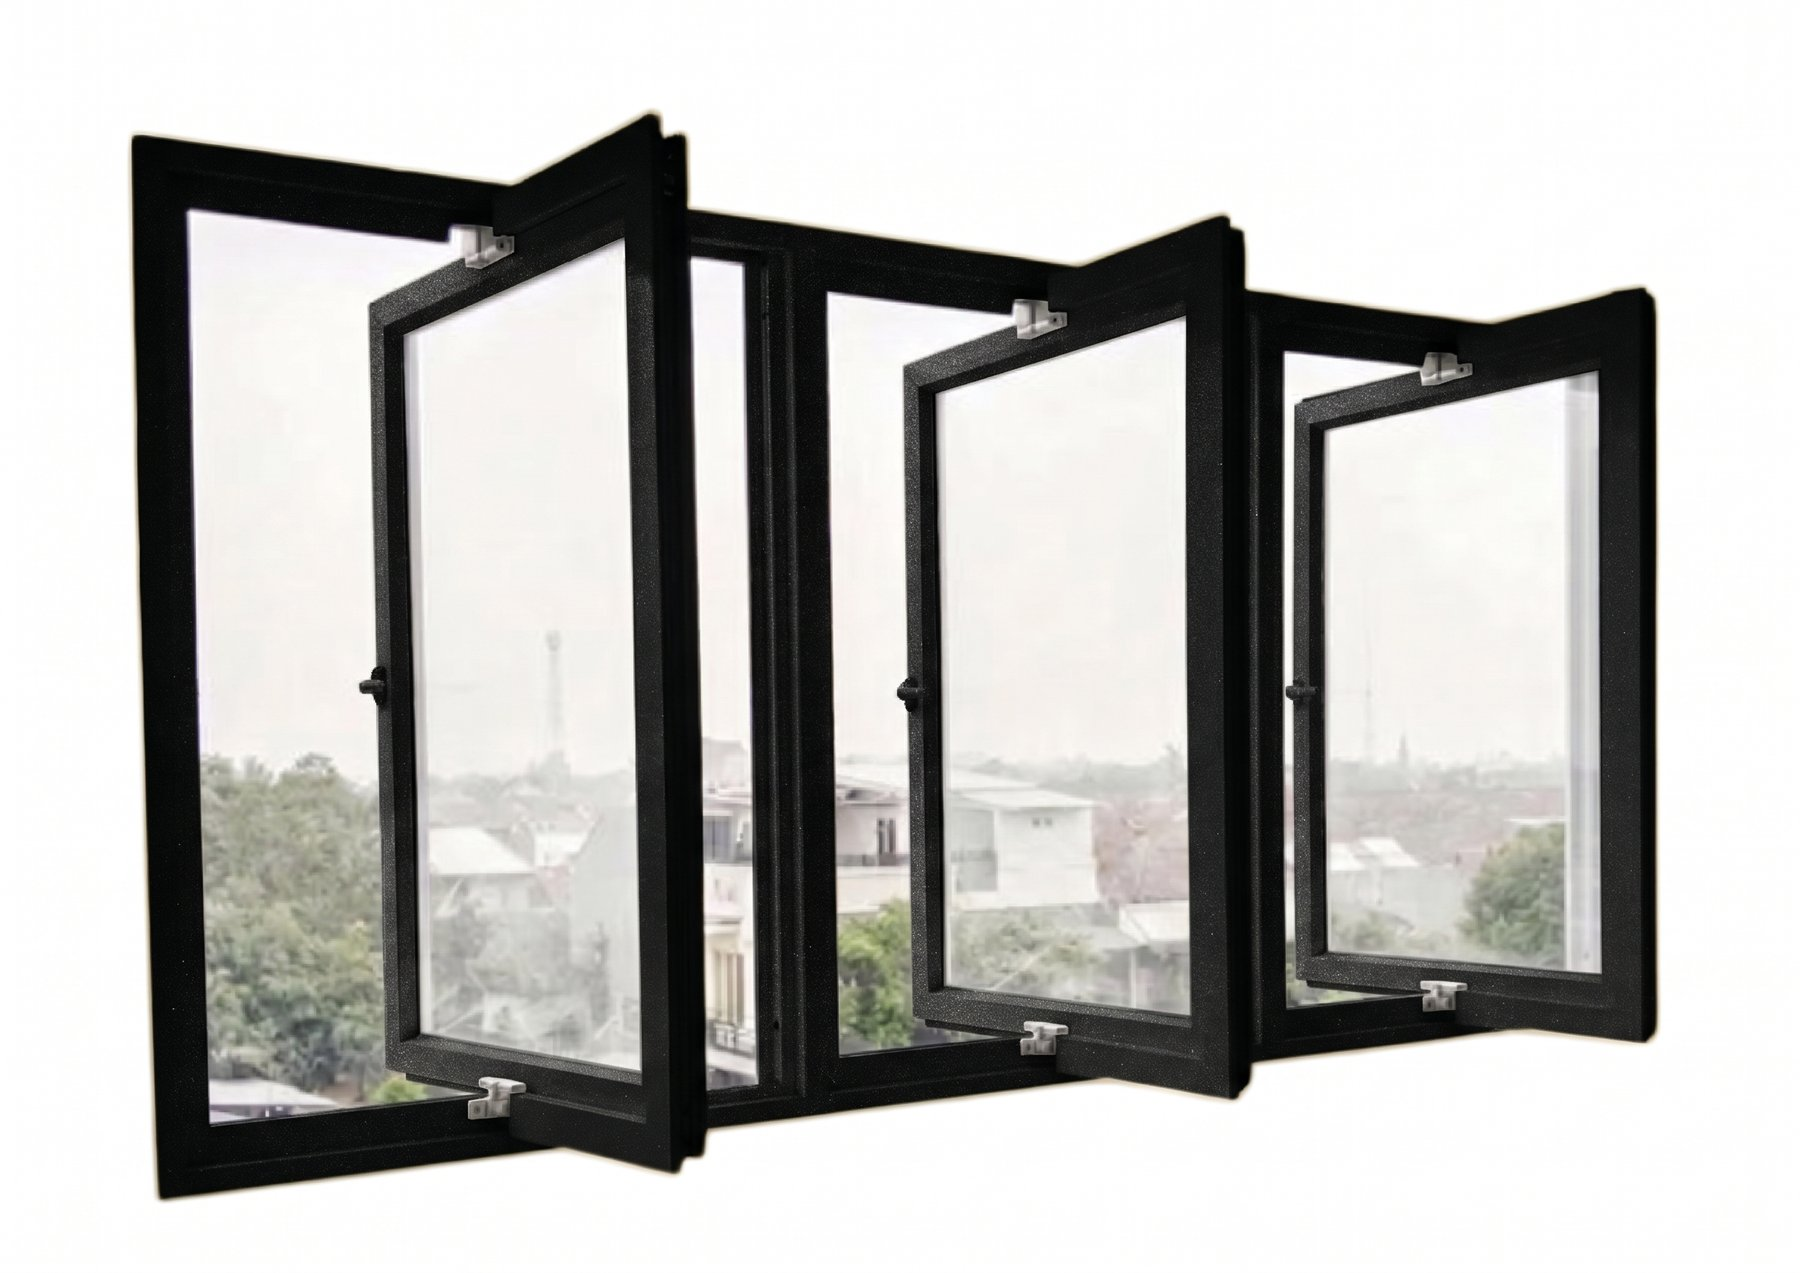
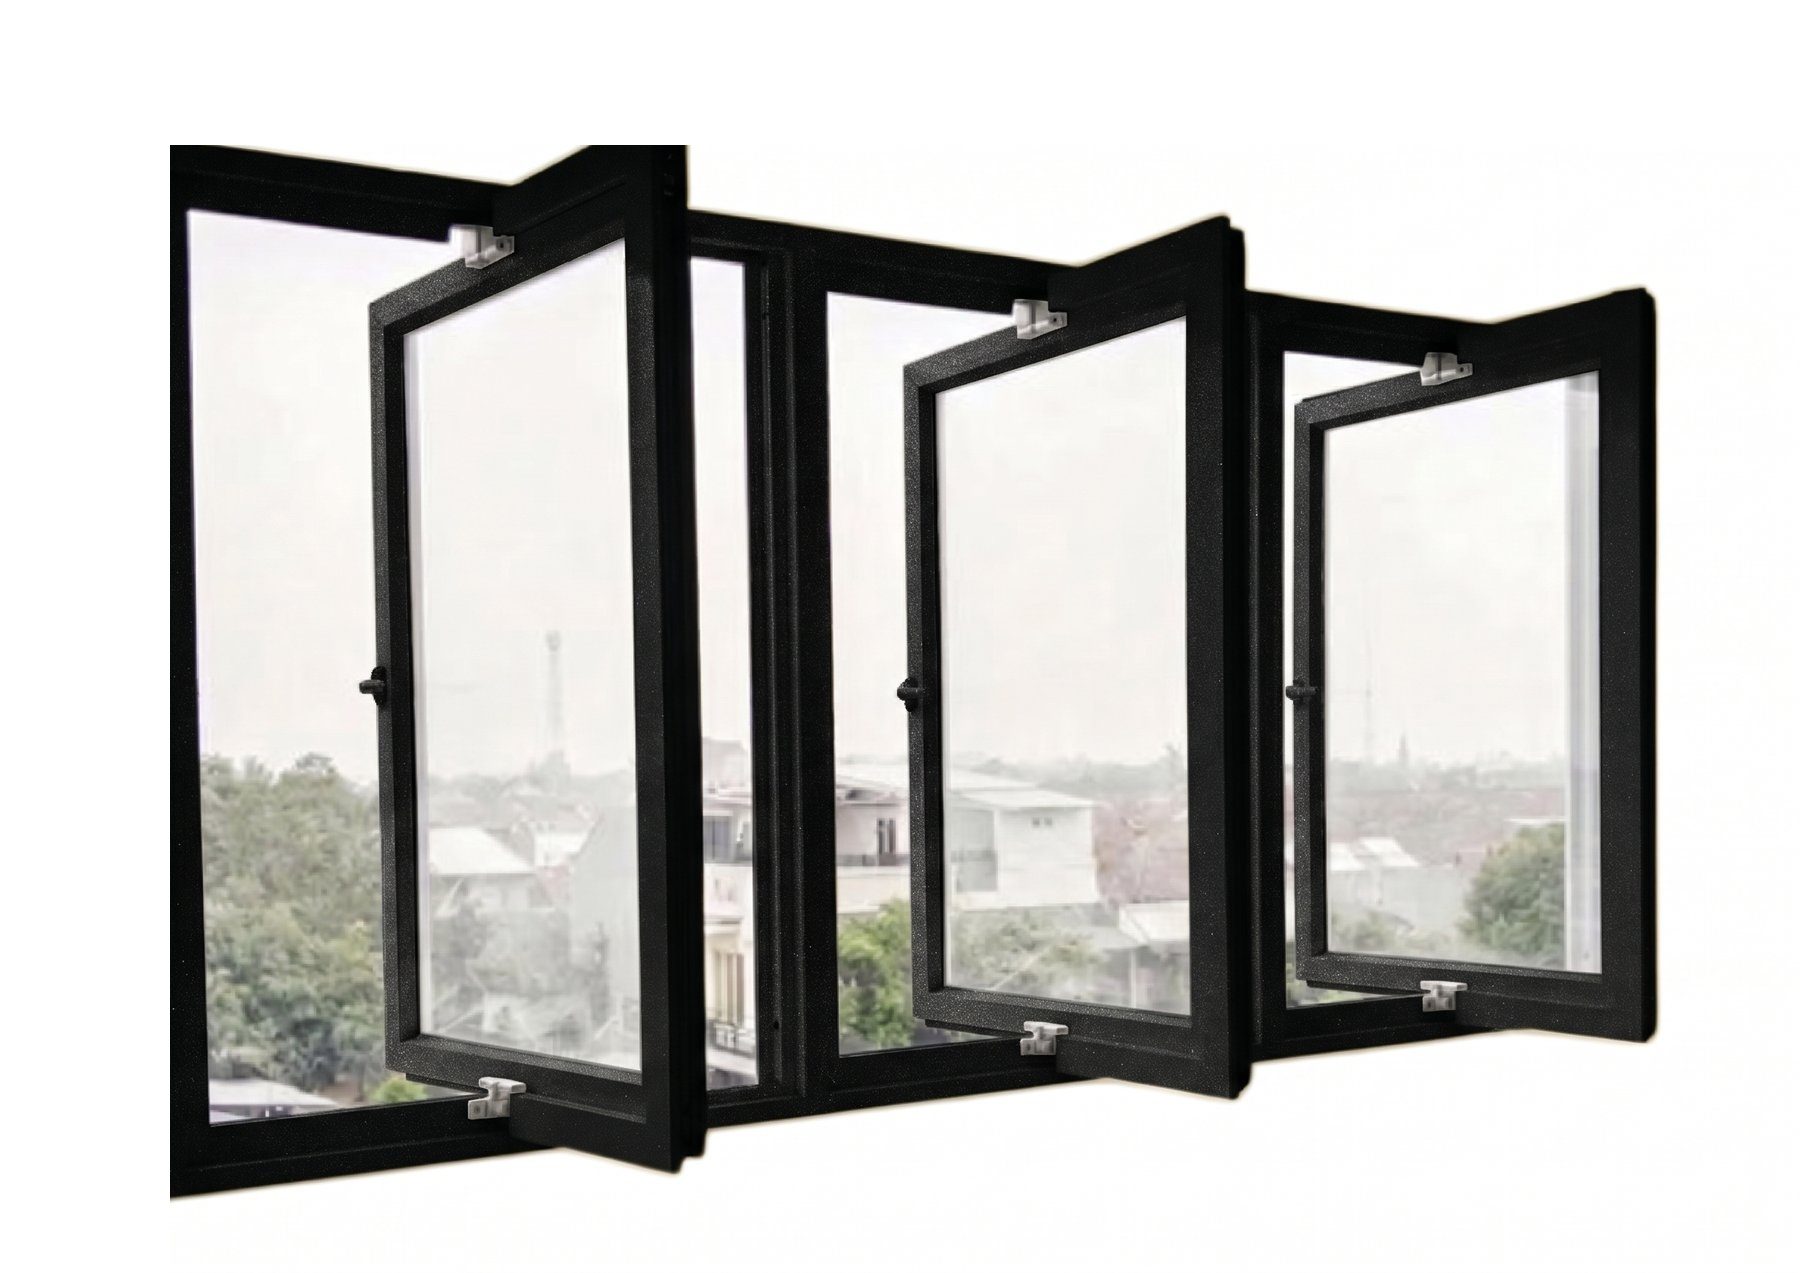
feat(falken): clean outer backgrounds to pure white for all window series (v2.8)

Changed region(s): [[0.0622, 0.0919, 0.1244, 0.9497], [0.3111, 0.0919, 0.4044, 0.1225]]

diff --git a/style.css b/style.css
@@ -4,7 +4,7 @@ Theme URI:
 Author: cescrafli
 Author URI: 
 Description: WordPress theme converted from Griya Djaya Sentosa HTML Template.
-Version: 2.7
+Version: 2.8
 Requires at least: 5.0
 Tested up to: 6.4
 Requires PHP: 7.0

diff --git a/page-product-upvc.php b/page-product-upvc.php
@@ -1528,7 +1528,7 @@ function changeColor(colorName, btnElement, colorTextLabel, brand) {
     
     if(brand === 'falken') {
         const itemId = mainImg.getAttribute('data-item-id') || '<?php echo esc_js($item_id); ?>';
-        newSrc = themeUrl + '/img/falken/' + itemId + '/' + colorName + '.jpg';
+        newSrc = themeUrl + '/img/falken/' + itemId + '/' + colorName + '.jpg?v=2.8';
     } else {
         let currentSrc = mainImg.getAttribute('data-base-src');
         if(!currentSrc) {
